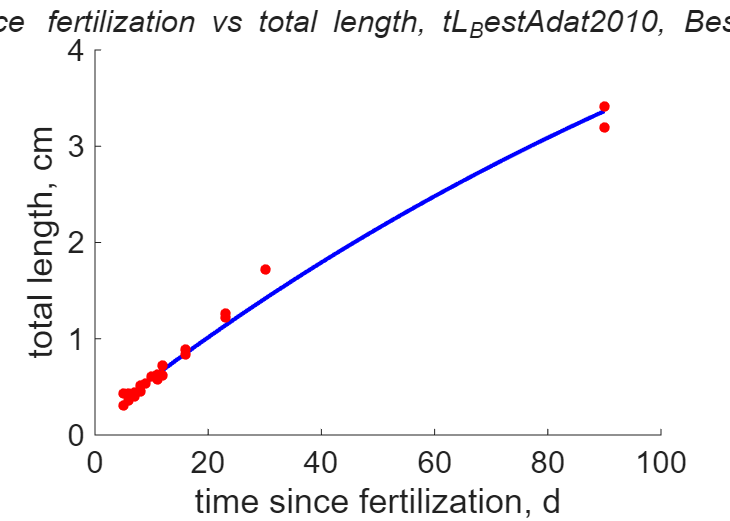
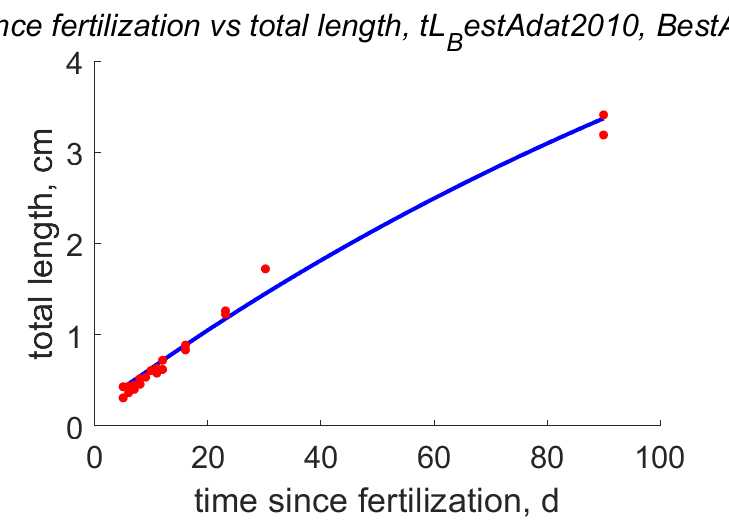
Update data limited estimation resutls

diff --git a/data_limited/Danio_rerio_res.html b/data_limited/Danio_rerio_res.html
@@ -44,7 +44,7 @@
   </div>
 
   <div class="par">
-  <h4>COMPLETE = 4.6; MRE =    0.083; SMAE =    0.084; SMSE =    0.010 </h4>
+  <h4>COMPLETE = 4.6; MRE =    0.080; SMAE =    0.084; SMSE =    0.010 </h4>
   </div>
 
   <p class="clear"></p>
@@ -53,21 +53,20 @@
   <h2>Data & predictions</h2>
   <TABLE id="prd">
     <TR  class="head"><TH>data</TH> <TH>prd</TH> <TH>RE</TH>  <TH>symbol</TH> <TH>units</TH> <TH>description</TH> </TR>
-    <TR><TD>  5</TD> <TD>4.775</TD> <TD>0.04502</TD> <TD>ab</TD> <TD>d</TD> <TD>age at birth</TD></TR>
-    <TR><TD> 75</TD> <TD>81.81</TD> <TD>0.09077</TD> <TD>ap</TD> <TD>d</TD> <TD>age at puberty</TD></TR>
-    <TR><TD>1642</TD> <TD>1660</TD> <TD>0.01077</TD> <TD>am</TD> <TD>d</TD> <TD>life span</TD></TR>
-    <TR><TD>0.4</TD> <TD>0.4272</TD> <TD>0.06806</TD> <TD>Lb</TD> <TD>cm</TD> <TD>total length at birth</TD></TR>
-    <TR><TD>3.25</TD> <TD>2.754</TD> <TD>0.1528</TD> <TD>Lp</TD> <TD>cm</TD> <TD>total length at puberty</TD></TR>
-    <TR><TD>  5</TD> <TD>5.75</TD> <TD>0.15</TD> <TD>Li</TD> <TD>cm</TD> <TD>ultimate total length</TD></TR>
-    <TR><TD colspan="2">see figure</TD> <TD>0.06566</TD> <TD>tL_BestAdat2010</TD> <TD colspan="2">time since fertilization <font color="blue"><i>vs.</i></font> total length</TD>
-    <TR class="psd"><TD>0.02</TD> <TD>0.01689</TD> <TD>0.1554</TD> <TD>psd.v</TD> <TD>cm/d</TD> <TD>energy conductance</TD></TR>
-    <TR class="psd"><TD> 18</TD> <TD>87.93</TD> <TD>3.885</TD> <TD>psd.p_M</TD> <TD>J/d.cm^3</TD> <TD>vol-spec som maint</TD></TR>
+    <TR><TD>  5</TD> <TD>4.83</TD> <TD>0.03404</TD> <TD>ab</TD> <TD>d</TD> <TD>age at birth</TD></TR>
+    <TR><TD> 75</TD> <TD>83.43</TD> <TD>0.1124</TD> <TD>ap</TD> <TD>d</TD> <TD>age at puberty</TD></TR>
+    <TR><TD>1642</TD> <TD>1636</TD> <TD>0.003949</TD> <TD>am</TD> <TD>d</TD> <TD>life span</TD></TR>
+    <TR><TD>0.4</TD> <TD>0.4229</TD> <TD>0.05716</TD> <TD>Lb</TD> <TD>cm</TD> <TD>total length at birth</TD></TR>
+    <TR><TD>3.25</TD> <TD>2.727</TD> <TD>0.161</TD> <TD>Lp</TD> <TD>cm</TD> <TD>total length at puberty</TD></TR>
+    <TR><TD>  5</TD> <TD>5.57</TD> <TD>0.1141</TD> <TD>Li</TD> <TD>cm</TD> <TD>ultimate total length</TD></TR>
+    <TR><TD colspan="2">see figure</TD> <TD>0.07792</TD> <TD>tL_BestAdat2010</TD> <TD colspan="2">time since fertilization <font color="blue"><i>vs.</i></font> total length</TD>
+    <TR class="psd"><TD>0.02</TD> <TD>0.02678</TD> <TD>0.3392</TD> <TD>psd.v</TD> <TD>cm/d</TD> <TD>energy conductance</TD></TR>
+    <TR class="psd"><TD> 18</TD> <TD>92.39</TD> <TD>4.133</TD> <TD>psd.p_M</TD> <TD>J/d.cm^3</TD> <TD>vol-spec som maint</TD></TR>
     <TR class="psd"><TD>0.002</TD> <TD>0.002</TD> <TD>  0</TD> <TD>psd.k_J</TD> <TD>1/d</TD> <TD>maturity maint rate coefficient</TD></TR>
-    <TR class="psd"><TD>0.3</TD> <TD>0.1191</TD> <TD>0.603</TD> <TD>psd.k</TD> <TD>-</TD> <TD>maintenance ratio</TD></TR>
-    <TR class="psd"><TD>0.8</TD> <TD>0.5233</TD> <TD>0.3459</TD> <TD>psd.kap</TD> <TD>-</TD> <TD>allocation fraction to soma</TD></TR>
-    <TR class="psd"><TD>0.8</TD> <TD>0.799</TD> <TD>0.001286</TD> <TD>psd.kap_G</TD> <TD>-</TD> <TD>growth efficiency</TD></TR>
+    <TR class="psd"><TD>0.3</TD> <TD>0.1129</TD> <TD>0.6237</TD> <TD>psd.k</TD> <TD>-</TD> <TD>maintenance ratio</TD></TR>
+    <TR class="psd"><TD>0.8</TD> <TD>0.7767</TD> <TD>0.02914</TD> <TD>psd.kap</TD> <TD>-</TD> <TD>allocation fraction to soma</TD></TR>
+    <TR class="psd"><TD>0.8</TD> <TD>0.8024</TD> <TD>0.003049</TD> <TD>psd.kap_G</TD> <TD>-</TD> <TD>growth efficiency</TD></TR>
     <TR class="psd"><TD>0.95</TD> <TD>0.95</TD> <TD>  0</TD> <TD>psd.kap_R</TD> <TD>-</TD> <TD>reproduction efficiency</TD></TR>
-    <TR class="psd"><TD>0.01</TD> <TD>0.002638</TD> <TD>0.7362</TD> <TD>psd.s_s</TD> <TD>-</TD> <TD>supply stress</TD></TR>
   </TABLE>
   </div>
 
@@ -77,26 +76,26 @@
     <TR class="head"><TH>symbol</TH> <TH>units</TH> <TH>value</TH>  <TH>free</TH> <TH>description</TH> </TR>
     <TR><TD>T_ref</TD> <TD>K</TD> <TD>293.1</TD> <TD>0</TD> <TD>Reference temperature</TD></TR>
     <TR><TD>T_A</TD> <TD>K</TD> <TD>8000</TD> <TD>0</TD> <TD>Arrhenius temp</TD></TR>
-    <TR><TD>z</TD> <TD>-</TD> <TD>0.3221</TD> <TD>1</TD> <TD>zoom factor</TD></TR>
+    <TR><TD>z</TD> <TD>-</TD> <TD>0.6018</TD> <TD>1</TD> <TD>zoom factor</TD></TR>
     <TR><TD>F_m</TD> <TD>l/d.cm^2</TD> <TD>6.5</TD> <TD>0</TD> <TD>{F_m}, max spec searching rate</TD></TR>
     <TR><TD>kap_X</TD> <TD>-</TD> <TD>0.8</TD> <TD>0</TD> <TD>digestion efficiency of food to reserve</TD></TR>
     <TR><TD>kap_P</TD> <TD>-</TD> <TD>0.1</TD> <TD>0</TD> <TD>faecation efficiency of food to faeces</TD></TR>
-    <TR><TD>v</TD> <TD>cm/d</TD> <TD>0.01689</TD> <TD>1</TD> <TD>energy conductance</TD></TR>
-    <TR><TD>kap</TD> <TD>-</TD> <TD>0.5233</TD> <TD>1</TD> <TD>allocation fraction to soma</TD></TR>
+    <TR><TD>v</TD> <TD>cm/d</TD> <TD>0.02678</TD> <TD>1</TD> <TD>energy conductance</TD></TR>
+    <TR><TD>kap</TD> <TD>-</TD> <TD>0.7767</TD> <TD>1</TD> <TD>allocation fraction to soma</TD></TR>
     <TR><TD>kap_R</TD> <TD>-</TD> <TD>0.95</TD> <TD>0</TD> <TD>reproduction efficiency</TD></TR>
-    <TR><TD>p_M</TD> <TD>J/d.cm^3</TD> <TD>87.93</TD> <TD>1</TD> <TD>[p_M], vol-spec somatic maint</TD></TR>
+    <TR><TD>p_M</TD> <TD>J/d.cm^3</TD> <TD>92.39</TD> <TD>1</TD> <TD>[p_M], vol-spec somatic maint</TD></TR>
     <TR><TD>p_T</TD> <TD>J/d.cm^2</TD> <TD>  0</TD> <TD>0</TD> <TD>{p_T}, surf-spec somatic maint</TD></TR>
     <TR><TD>k_J</TD> <TD>1/d</TD> <TD>0.002</TD> <TD>0</TD> <TD>maturity maint rate coefficient</TD></TR>
-    <TR><TD>E_G</TD> <TD>J/cm^3</TD> <TD>5237</TD> <TD>1</TD> <TD>[E_G], spec cost for structure</TD></TR>
-    <TR><TD>E_Hb</TD> <TD>J</TD> <TD>0.1358</TD> <TD>1</TD> <TD>maturity at birth</TD></TR>
-    <TR><TD>E_Hj</TD> <TD>J</TD> <TD>0.2805</TD> <TD>1</TD> <TD>maturity at metam</TD></TR>
-    <TR><TD>E_Hp</TD> <TD>J</TD> <TD>55.87</TD> <TD>1</TD> <TD>maturity at puberty</TD></TR>
-    <TR><TD>h_a</TD> <TD>1/d^2</TD> <TD>4.834e-09</TD> <TD>1</TD> <TD>Weibull aging acceleration</TD></TR>
+    <TR><TD>E_G</TD> <TD>J/cm^3</TD> <TD>5214</TD> <TD>1</TD> <TD>[E_G], spec cost for structure</TD></TR>
+    <TR><TD>E_Hb</TD> <TD>J</TD> <TD>0.2011</TD> <TD>1</TD> <TD>maturity at birth</TD></TR>
+    <TR><TD>E_Hj</TD> <TD>J</TD> <TD>0.2755</TD> <TD>1</TD> <TD>maturity at metam</TD></TR>
+    <TR><TD>E_Hp</TD> <TD>J</TD> <TD>85.47</TD> <TD>1</TD> <TD>maturity at puberty</TD></TR>
+    <TR><TD>h_a</TD> <TD>1/d^2</TD> <TD>6.082e-09</TD> <TD>1</TD> <TD>Weibull aging acceleration</TD></TR>
     <TR><TD>s_G</TD> <TD>-</TD> <TD>0.0001</TD> <TD>0</TD> <TD>Gompertz stress coefficient</TD></TR>
     <TR><TD>V_0</TD> <TD>cm^3</TD> <TD>1e-10</TD> <TD>0</TD> <TD>initial structure of egg</TD></TR>
-    <TR><TD>del_Mt</TD> <TD>-</TD> <TD>0.07052</TD> <TD>1</TD> <TD>shape coefficient for adult</TD></TR>
+    <TR><TD>del_Mt</TD> <TD>-</TD> <TD>0.1194</TD> <TD>1</TD> <TD>shape coefficient for adult</TD></TR>
     <TR><TD>f</TD> <TD>-</TD> <TD>  1</TD> <TD>0</TD> <TD>scaled functional response</TD></TR>
-    <TR><TD>f_BestAdat2010</TD> <TD>-</TD> <TD>1.349</TD> <TD>1</TD> <TD>scaled functional response of BestAdat2010 data</TD></TR>
+    <TR><TD>f_BestAdat2010</TD> <TD>-</TD> <TD>1.413</TD> <TD>1</TD> <TD>scaled functional response of BestAdat2010 data</TD></TR>
   </TABLE>
   </div>
 

diff --git a/data_limited/pars_init_Danio_rerio.m b/data_limited/pars_init_Danio_rerio.m
@@ -29,8 +29,8 @@ par.V_0 = 1e-10;         free.V_0   = 0;   units.V_0 = 'cm^3';       label.V_0 =
 par.del_Mt = 0.20;       free.del_Mt = 1;   units.del_Mt = '-';       label.del_Mt = 'shape coefficient for adult';
 
 % food levels
-par.f = 1;               free.f     = 0;   units.f = '-';            label.f = 'scaled functional response';
-par.f_BestAdat2010 = 1;  free.f_BestAdat2010 = 1;   units.f_BestAdat2010 = '-';  label.f_BestAdat2010 = 'scaled functional response of BestAdat2010 data';
+par.f = 1;               free.f     = 0;            units.f = '-';              label.f = 'scaled functional response';
+par.f_BestAdat2010 = 1;  free.f_BestAdat2010 = 1;   units.f_BestAdat2010 = '-'; label.f_BestAdat2010 = 'scaled functional response of BestAdat2010 data';
 
 %% set chemical parameters from Kooy2010
 [par, units, label, free] = addchem(par, units, label, free, metaData.phylum, metaData.class);
